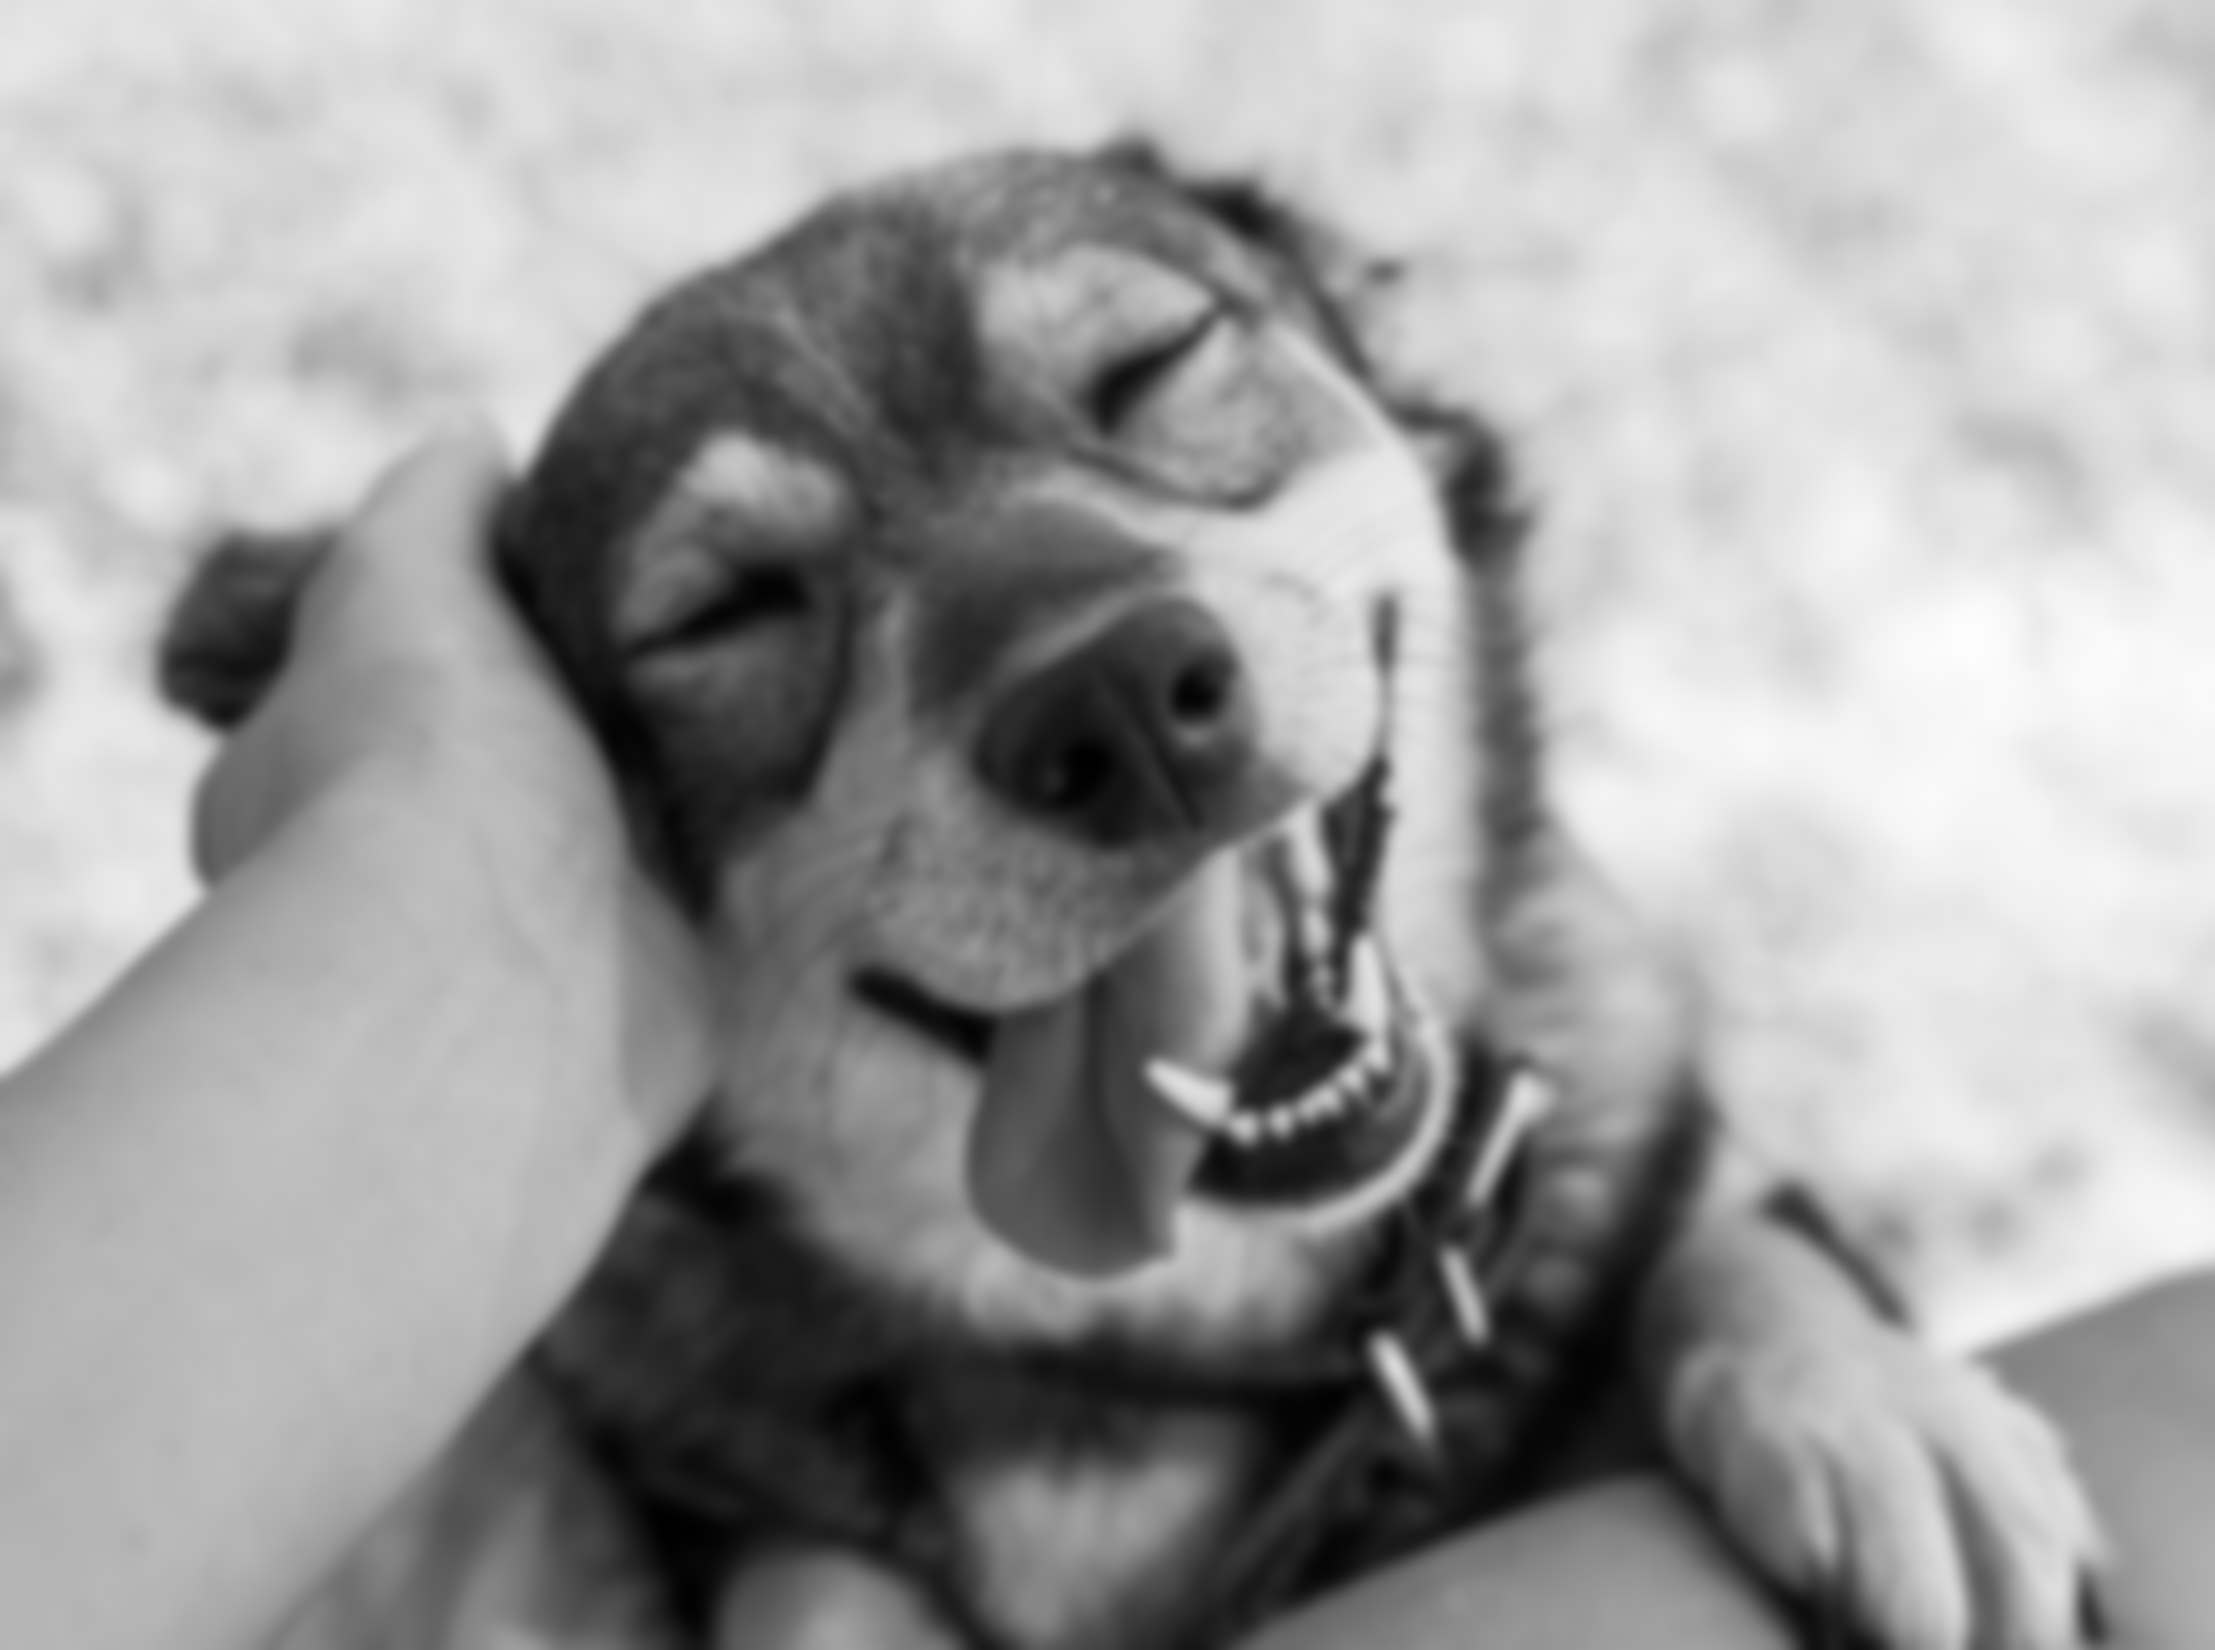
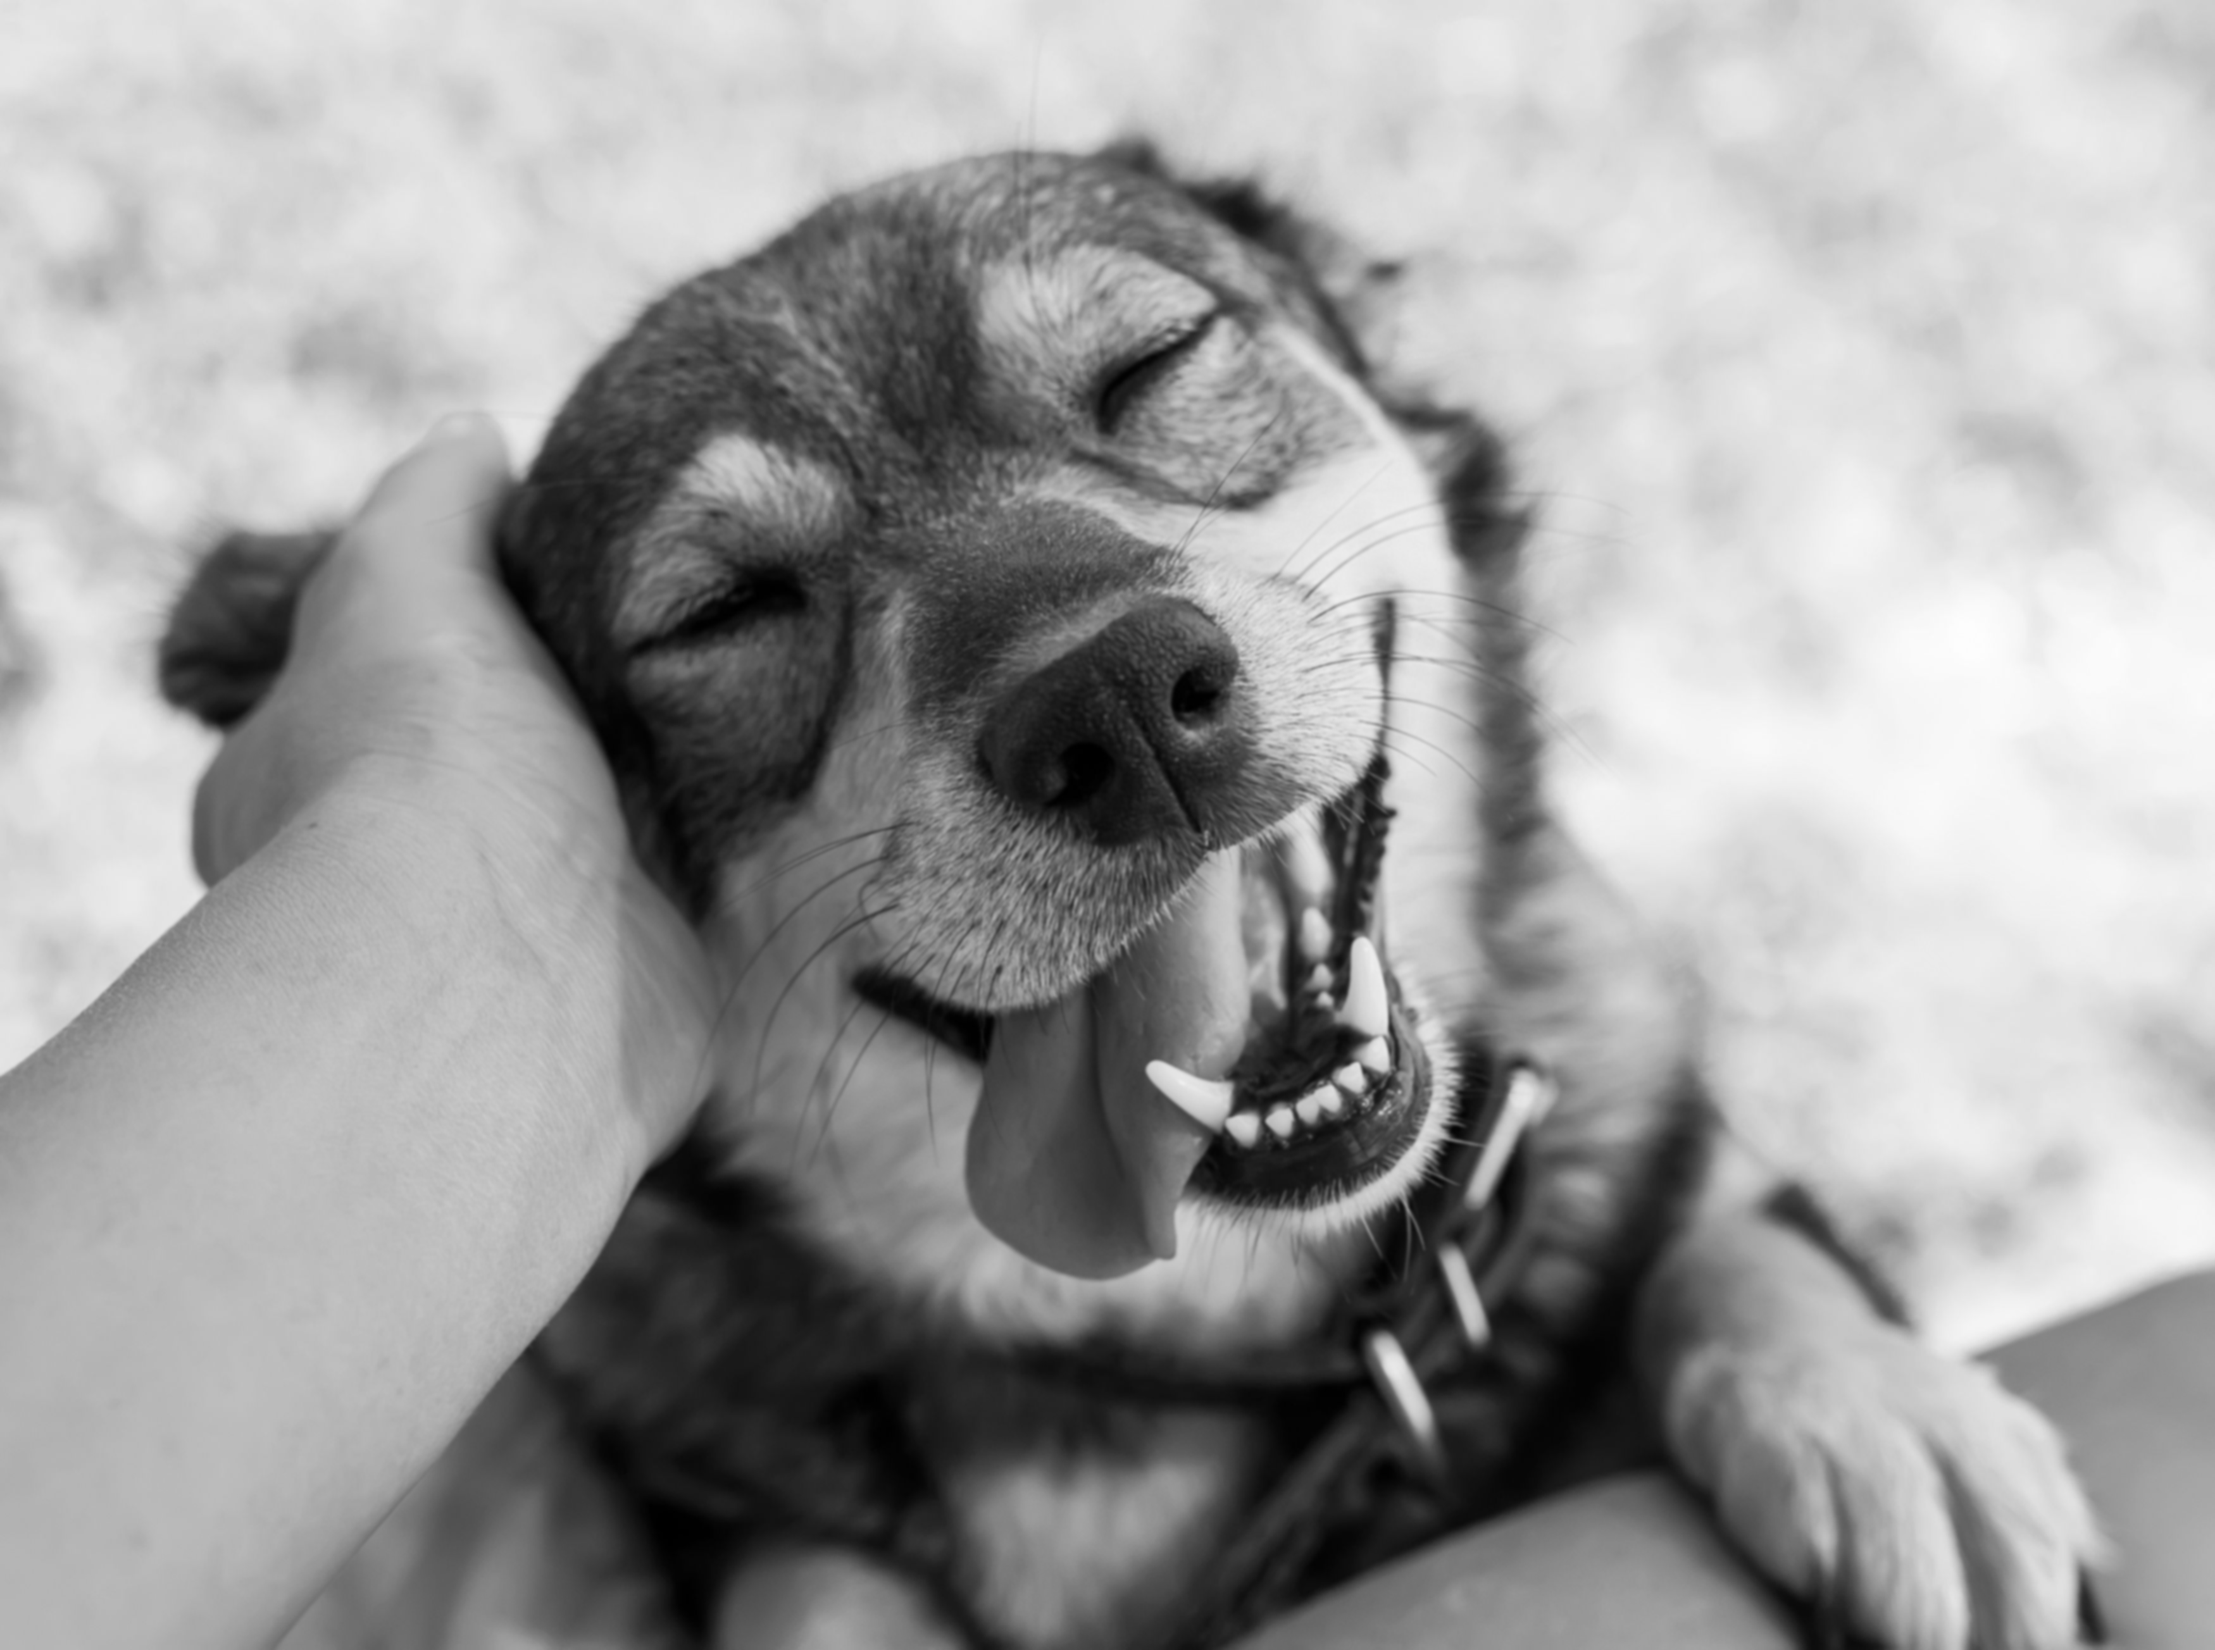
finished project with gray scaled and blured image using Gaussian blur

diff --git a/Midterm/imageGrayScaleandBlur.py b/Midterm/imageGrayScaleandBlur.py
@@ -2,39 +2,34 @@ from PIL import Image, ImageFilter
 import os
 
 def process_images(source_folder, output_folder):
-    # Ensure the output directory exists
-    os.makedirs(output_folder, exist_ok=True)
-
     # List to keep track of new file names
-    new_file_names = []
+    newFile = []
 
-    # Process each file in the source directory
     for filename in os.listdir(source_folder):
-        if filename.endswith('.jpg'):  # Check for JPEG files
-            # Construct full file path for source and output
+        if filename.endswith('.jpg'):  # Makes sure we are working with jpg which we will convert to png
+            # paths for source and output of Picture#
             source_path = os.path.join(source_folder, filename)
             output_filename = filename.replace('.jpg', '.png')
             output_path = os.path.join(output_folder, output_filename)
 
-            # Open the image, convert to grayscale
+            # Converts each image to grayscale
             with Image.open(source_path) as img:
                 gray_img = img.convert('L')
 
-                # Apply Gaussian blur to the grayscale image
-                blurred_img = gray_img.filter(ImageFilter.GaussianBlur(radius=10))
+                # Gaussian blur to the grayscaled image, adjusting the radius increases or decreases the blur
+                blurred_img = gray_img.filter(ImageFilter.GaussianBlur(radius=2))
                 blurred_img.save(output_path)
 
             # Append the output file name to the list
-            new_file_names.append(output_filename)
+            newFile.append(output_filename)
 
-    # Write the list of new file names to a README file
+    # Writes the new file name within the txt file
     with open(os.path.join(output_folder, 'READ ME.txt'), 'w') as readme_file:
-        for name in new_file_names:
+        for name in newFile:
             readme_file.write(name + '\n')
 
-# Define the paths
+# Paths to my source and output
 source_folder = r'C:\Users\austi\OneDrive\Desktop\python_CISC179\Midterm'
 output_folder = r'C:\Users\austi\OneDrive\Desktop\python_CISC179\midtermProject\Midterm\ProcessedImages'
 
-# Call the function
 process_images(source_folder, output_folder)
